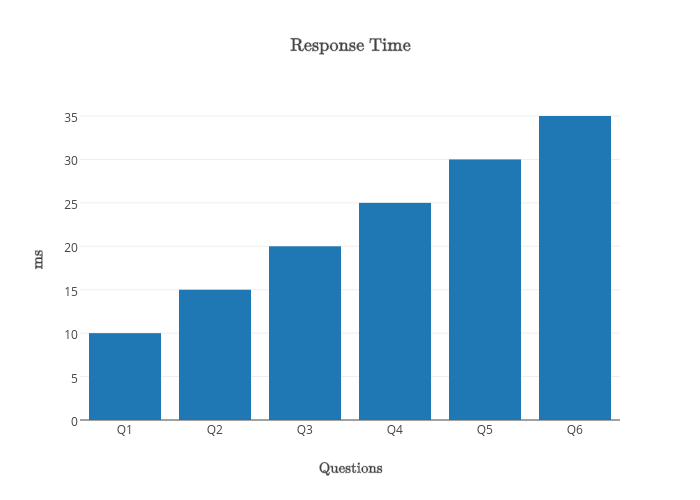
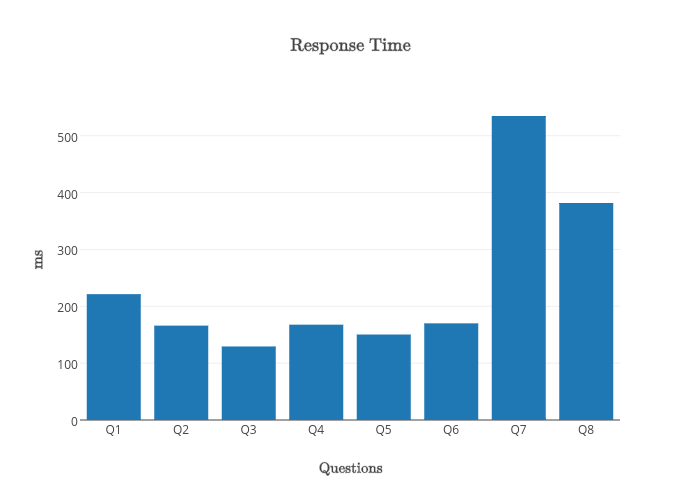
advanced question

diff --git a/src/test/java/com/acmutv/ontoqa/benchmark/advanced/QuestionA01Test.java b/src/test/java/com/acmutv/ontoqa/benchmark/advanced/QuestionA01Test.java
@@ -1,0 +1,115 @@
+/*
+  The MIT License (MIT)
+
+  Copyright (c) 2016 Antonella Botte, Giacomo Marciani and Debora Partigianoni
+
+  Permission is hereby granted, free of charge, to any person obtaining a copy
+  of this software and associated documentation files (the "Software"), to deal
+  in the Software without restriction, including without limitation the rights
+  to use, copy, modify, merge, publish, distribute, sublicense, and/or sell
+  copies of the Software, and to permit persons to whom the Software is
+  furnished to do so, subject to the following conditions:
+
+
+  The above copyright notice and this permission notice shall be included in
+  all copies or substantial portions of the Software.
+
+
+  THE SOFTWARE IS PROVIDED "AS IS", WITHOUT WARRANTY OF ANY KIND, EXPRESS OR
+  IMPLIED, INCLUDING BUT NOT LIMITED TO THE WARRANTIES OF MERCHANTABILITY,
+  FITNESS FOR A PARTICULAR PURPOSE AND NONINFRINGEMENT.  IN NO EVENT SHALL THE
+  AUTHORS OR COPYRIGHT HOLDERS BE LIABLE FOR ANY CLAIM, DAMAGES OR OTHER
+  LIABILITY, WHETHER IN AN ACTION OF CONTRACT, TORT OR OTHERWISE, ARISING FROM,
+  OUT OF OR IN CONNECTION WITH THE SOFTWARE OR THE USE OR OTHER DEALINGS IN
+  THE SOFTWARE.
+ */
+
+package com.acmutv.ontoqa.benchmark.advanced;
+
+import com.acmutv.ontoqa.benchmark.Common;
+import com.acmutv.ontoqa.core.CoreController;
+import com.acmutv.ontoqa.core.exception.OntoqaFatalException;
+import com.acmutv.ontoqa.core.exception.QueryException;
+import com.acmutv.ontoqa.core.exception.QuestionException;
+import com.acmutv.ontoqa.core.grammar.Grammar;
+import com.acmutv.ontoqa.core.knowledge.answer.Answer;
+import com.acmutv.ontoqa.core.knowledge.answer.SimpleAnswer;
+import com.acmutv.ontoqa.core.knowledge.ontology.Ontology;
+import org.apache.commons.lang3.tuple.Pair;
+import org.apache.jena.query.Query;
+import org.apache.jena.query.QueryFactory;
+import org.junit.Assert;
+import org.junit.Ignore;
+import org.junit.Test;
+import org.slf4j.Logger;
+import org.slf4j.LoggerFactory;
+
+import java.io.IOException;
+
+import static com.acmutv.ontoqa.benchmark.Common.*;
+
+/**
+ * JUnit tests for questions of class [CLASS ADVANCED-01].
+ * `Who is the CEO of the most valuable company?`
+ * @author Antonella Botte {@literal <abotte@acm.org>}
+ * @author Giacomo Marciani {@literal <gmarciani@acm.org>}
+ * @author Debora Partigianoni {@literal <dpartigianoni@acm.org>}
+ * @since 1.0
+ */
+public class QuestionA01Test {
+
+  private static final Logger LOGGER = LoggerFactory.getLogger(QuestionA01Test.class);
+
+  private static final String QUESTION = "Who is the CEO of the most valuable company?";
+
+  private static final Answer ANSWER = new SimpleAnswer(TIM_COOK_IRI);
+
+  private static final String QUERY = String.format("SELECT DISTINCT  ?v4\n" +
+      "WHERE\n" +
+      "  { ?v14  <%s>  ?v4 . \n" +
+      "    ?v14  <%s>  ?v12\n" +
+      "  }\n" +
+      "ORDER BY DESC(?v12)\n" +
+      "OFFSET  0\n" +
+      "LIMIT   1\n", HAS_CEO_IRI, HAS_COMPANY_VALUE_IRI);
+
+  private static final String QUERY_bis = String.format("SELECT DISTINCT  ?v4\n" +
+      "WHERE\n" +
+      "  { ?v14  <%s>  ?v12 . \n" +
+      "    ?v14  <%s>  ?v4\n" +
+      "  }\n" +
+      "ORDER BY DESC(?v12)\n" +
+      "OFFSET  0\n" +
+      "LIMIT   1\n", HAS_COMPANY_VALUE_IRI, HAS_CEO_IRI);
+
+  /**
+   * Tests the question-answering with parsing.
+   * @throws QuestionException when the question is malformed.
+   * @throws OntoqaFatalException when the question cannot be processed due to some fatal errors.
+   */
+  @Test
+  public void test_nlp() throws Exception {
+    final Grammar grammar = Common.getGrammar();
+    final Ontology ontology = Common.getOntology();
+    final Pair<Query,Answer> result = CoreController.process(QUESTION, grammar, ontology);
+    final Query query = result.getKey();
+    final Answer answer = result.getValue();
+    LOGGER.info("Query: {}", query);
+    LOGGER.info("Answer: {}", answer);
+    Assert.assertTrue(QUERY.equals(query.toString()) || QUERY_bis.equals(query.toString()));
+    Assert.assertEquals(ANSWER, answer);
+  }
+
+  /**
+   * Tests the ontology answering on raw SPARQL query submission.
+   */
+  @Test
+  public void test_ontology() throws OntoqaFatalException, IOException, QueryException {
+    String sparql = String.format("SELECT DISTINCT  ?v4 WHERE { ?v14  <%s>  ?v4 . ?v14  <%s>  ?v12 } " +
+        "ORDER BY DESC(?v12) OFFSET 0 LIMIT 1", HAS_CEO_IRI, HAS_COMPANY_VALUE_IRI);
+    Query query = QueryFactory.create(sparql);
+    LOGGER.debug("SPARQL query:\n{}", query);
+    Common.test_query(query, ANSWER);
+  }
+
+}

diff --git a/paper/sec/evaluation.tex b/paper/sec/evaluation.tex
@@ -10,32 +10,38 @@ The experimental framework consists in evaluating the timing and memory performa
 In particular we examine the following class of questions:
 
 \begin{itemize}
-	\item[Q1] questions in the form [pronoun,verb,object], e.g. \textit{who founded Microsoft?}.
-	\item[Q2] questions in the form [pronoun,verb,relational noun,relational object], e.g. \textit{who are the corporate officers of Microsoft?}.
-	\item[Q3] questions in the form [pronoun,copula,subject,verb], e.g. \textit{where is Microsoft headquartered?}.
-	\item[Q4] questions in the form [pronoun,verb,superlative adjective,subject], e.g. \textit{which is the most valuable company?}.
-	\item[Q5] questions in the form [copula,subject,adjective], e.g. \textit{is Satya Nadella italian?}.
-	\item[Q6] questions in the form [copula,subject,verb,object,participle verb,object], e.g. \textit{did Microsoft acquire a company headquartered in Italy?}.
+	\item[Q1] questions in the form \textit{'who founded Microsoft?'}.
+	\item[Q2] questions in the form \textit{'who are the corporate officers of Microsoft?'}.
+	\item[Q3] questions in the form \textit{'where is Microsoft headquartered?'}.
+	\item[Q4] questions in the form \textit{'which is the most valuable company?'}.
+	\item[Q5] questions in the form \textit{'is Satya Nadella the CEO of Microsoft?'}.
+	\item[Q6] questions in the form \textit{'did Microsoft acquire a company headquartered in Italy?'}.
+	\item[Q7] questions in the form \textit{'is Satya Nadella italian?'}.
+	\item[Q8] questions in the form \textit{'did Microsoft acquire an italian company?'}.
 \end{itemize}
 
-The reported results have been carried out by averaging measurements of 10 executions in random order. 
+Notice that questions \texttt{Q7} and \texttt{Q8} induce semantical ambiguities due to the presence of the entry \textit{'italian'}. In fact, the latter can be referred both to companies (e.g. a company headquartered in Italy) and to people (e.g. a person with italian nationality).
+
+The experiments have been carried out by averaging measurements on randomly ordered 10 executions.
 %
-In Figure~\ref{fig:evaluation-time} and Figure~\ref{fig:evaluation-memory} we show, repsectively, the \textit{response time} and the \textit{memory usage} achieved by Ontoqa when facing the benchmark questions (Q1-6).
+In Figure~\ref{fig:evaluation-time} and Figure~\ref{fig:evaluation-memory} we show, repsectively, the \textit{response time} and the \textit{memory usage} achieved by Ontoqa when facing with the benchmark questions \texttt{Q1}-\texttt{Q8}.
 %
 The former has been measured considering the time elapsed for the question to be answered, calling the Java built-in function \texttt{System.currentTimeMillis()}.
 %
-The latter has been measured considering the peak value of heap usage recorded by VisualVM.
+The latter has been measured considering the peak value of heap usage recorded by \textit{VisualVM}.
+
+The results are coherent with the theoretical and implementation framework. In fact, we can observe that (i) unambiguous questions (\texttt{Q1-Q6}) induce a response time proportional to the depth of the generated LTAG and (ii) the questions involving ambiguities (\texttt{Q7 and Q8}) induce a response time proportional to the complexity of the ambiguity.
 
 \begin{figure}[tp]
 	\centering
 	\includegraphics[width=0.8\columnwidth]{./fig/evaluation-response-time}
-	\caption{Timing performance of Ontoqa facing the benchmark questions.}
+	\caption{Respinse time performance of Ontoqa on the benchmark questions.}
 	\label{fig:evaluation-time}
 \end{figure}
 
 \begin{figure}[tp]
 	\centering
 	\includegraphics[width=0.8\columnwidth]{./fig/evaluation-memory-usage}
-	\caption{Memory performance of Ontoqa facing the benchmark questions.}
+	\caption{Memory usage performance of Ontoqa on the benchmark questions.}
 	\label{fig:evaluation-memory}
 \end{figure}

diff --git a/src/main/java/com/acmutv/ontoqa/core/parser/AdvancedSltagParser.java b/src/main/java/com/acmutv/ontoqa/core/parser/AdvancedSltagParser.java
@@ -186,6 +186,7 @@ public class AdvancedSltagParser implements ReasoningSltagParser {
     Iterator<ElementarySltag> iterCandidates;
 
     /* SYNTACTICALLY SOLVABLE AMBIGUITIES */
+    LOGGER.debug("[AMBIGUITIES MANAGEMENT] :: solving syntactic ambiguities");
     iterCandidates = candidates.iterator();
     while (candidates.size() > 1 && iterCandidates.hasNext()) {
       Sltag candidate = iterCandidates.next();
@@ -219,6 +220,7 @@ public class AdvancedSltagParser implements ReasoningSltagParser {
     }
 
     /* SEMANTICALLY SOLVABLE AMBIGUITIES (SUBSTITUTIONS) */
+    LOGGER.debug("[AMBIGUITIES MANAGEMENT] :: solving semantic ambiguities (substitutions)");
     iterCandidates = candidates.iterator();
     while (candidates.size() > 1 && iterCandidates.hasNext()) {
       Sltag candidate = iterCandidates.next();
@@ -234,6 +236,7 @@ public class AdvancedSltagParser implements ReasoningSltagParser {
     }
 
     /* SEMANTICALLY SOLVABLE AMBIGUITIES (ADJUNCTIONS) */
+    LOGGER.debug("[AMBIGUITIES MANAGEMENT] :: solving semantic ambiguities (adjunctions)");
     iterCandidates = candidates.iterator();
     while (candidates.size() > 1 && iterCandidates.hasNext()) {
       Sltag candidate = iterCandidates.next();
@@ -255,6 +258,7 @@ public class AdvancedSltagParser implements ReasoningSltagParser {
     }
 
      /* UNSOLVABLE AMBIGUITIES */
+    LOGGER.debug("[AMBIGUITIES MANAGEMENT] :: processing unsolved ambiguities");
     iterCandidates = candidates.iterator();
     while (iterCandidates.hasNext()) {
       Sltag candidate = iterCandidates.next();

diff --git a/src/test/java/com/acmutv/ontoqa/benchmark/advanced/TestAllBenchmarkAdvanced.java b/src/test/java/com/acmutv/ontoqa/benchmark/advanced/TestAllBenchmarkAdvanced.java
@@ -24,29 +24,22 @@
   THE SOFTWARE.
  */
 
-package com.acmutv.ontoqa.benchmark;
+package com.acmutv.ontoqa.benchmark.advanced;
 
-import com.acmutv.ontoqa.benchmark.advanced.TestAllBenchmarkAdvanced;
-import com.acmutv.ontoqa.benchmark.basic.*;
-import com.acmutv.ontoqa.benchmark.extra.*;
 import org.junit.runner.RunWith;
 import org.junit.runners.Suite;
 
 /**
- * JUnit test suite for benchmarks.
+ * This class realizes JUnit test suite for benchmarks [ADVANCED].
  * @author Antonella Botte {@literal <abotte@acm.org>}
  * @author Giacomo Marciani {@literal <gmarciani@acm.org>}
  * @author Debora Partigianoni {@literal <dpartigianoni@acm.org>}
  * @since 1.0
- * @see TestAllBenchmarkBasic
- * @see TestAllBenchmarkExtra
- * @see TestAllBenchmarkAdvanced
+ * @see QuestionA01Test
  */
 @RunWith(Suite.class)
 @Suite.SuiteClasses({
-    TestAllBenchmarkBasic.class,
-    TestAllBenchmarkExtra.class,
-    TestAllBenchmarkAdvanced.class
+    QuestionA01Test.class,
 })
-public class TestAllBenchmark {
+public class TestAllBenchmarkAdvanced {
 }

diff --git a/src/main/java/com/acmutv/ontoqa/core/syntax/ltag/SimpleLtag.java b/src/main/java/com/acmutv/ontoqa/core/syntax/ltag/SimpleLtag.java
@@ -414,6 +414,7 @@ public class SimpleLtag extends DelegateTree<LtagNode, LtagEdge> implements Ltag
    */
   @Override
   public LtagNode firstMatch(SyntaxCategory category, String start, LtagNodeMarker marker) {
+    LOGGER.debug("Looking first match (category: {} | start: {} | marker: {})", category, start, marker);
     boolean active = start == null;
     boolean findByCategory = (category != null);
     boolean findByMarker = (marker != null);
@@ -435,7 +436,7 @@ public class SimpleLtag extends DelegateTree<LtagNode, LtagEdge> implements Ltag
       active = (active) ?
           active
           :
-          curr.getType().equals(LtagNodeType.TERMINAL) &&
+          LtagNodeType.TERMINAL.equals(curr.getType()) &&
               (start.equals(curr.getLabel()) || curr.getLabel().endsWith(start));
 
       if (active &&
